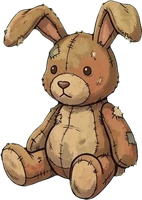
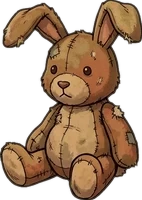
Photo et peluche aux couleurs de la pièce, plus de pastille de Rex, mot Menu centré sur PC

diff --git a/site/ui.js b/site/ui.js
@@ -169,7 +169,6 @@ function rGame(){
     + '<button class="chip" data-act="info" data-id="def" aria-label="Défense de nuit : ' + defenseNuit() + '">' + ic("bouclier", "🛡") + ' ' + defenseNuit() + '<small class="chip-lbl">défense</small></button>'
     + '<button class="chip" data-act="info" data-id="moral" aria-label="Moral : ' + Math.round(G.moral) + '">' + mo + ' ' + Math.round(G.moral) + '<small class="chip-lbl">moral</small></button>'
     + '<button class="chip chipson" data-act="menu" aria-label="Menu et guide">☰<small class="chip-lbl">menu</small></button>'
-    + (chien() ? '<button class="chip chipchien" data-act="chien" title="' + chien().nom + ', le chien">' + ic("chien", "🐕") + (chien().faim ? ' ⚠' : '') + '</button>' : '')
     + '</div><div class="hd-score" title="Score : chaque jour terminé rapporte 1 point par membre en vie"><span class="hs-ico">⭐</span><b>' + (G.score || 0) + '</b><small>score<br>record ' + Math.max(RECORD, G.score || 0) + '</small></div></div>'
     + '<div class="stage scene"><div class="grid2">' + m + '</div><p class="sub aide">Touche 1 ou 2 membres pour fouiller · cases 🗡 🔦 🎒 pour équiper · ⚡ = énergie.</p>'
     + '<div class="row">' + (mission() && !modePC() ? '<button class="btn alt' + (livraisonPossible() >= 0 ? " pret" : "") + '" style="flex:0 0 auto" data-act="mission">🎯 ' + mission().titre + ' · ' + joursMission() + ' j</button>' : '') + (marcheOuvert() && !modePC() ? '<button class="btn alt" style="flex:0 0 auto" data-act="marche">' + ic("marco", MARCHE.icone) + ' Marché</button>' : '') + '</div></div>'

diff --git a/ui.js b/ui.js
@@ -169,7 +169,6 @@ function rGame(){
     + '<button class="chip" data-act="info" data-id="def" aria-label="Défense de nuit : ' + defenseNuit() + '">' + ic("bouclier", "🛡") + ' ' + defenseNuit() + '<small class="chip-lbl">défense</small></button>'
     + '<button class="chip" data-act="info" data-id="moral" aria-label="Moral : ' + Math.round(G.moral) + '">' + mo + ' ' + Math.round(G.moral) + '<small class="chip-lbl">moral</small></button>'
     + '<button class="chip chipson" data-act="menu" aria-label="Menu et guide">☰<small class="chip-lbl">menu</small></button>'
-    + (chien() ? '<button class="chip chipchien" data-act="chien" title="' + chien().nom + ', le chien">' + ic("chien", "🐕") + (chien().faim ? ' ⚠' : '') + '</button>' : '')
     + '</div><div class="hd-score" title="Score : chaque jour terminé rapporte 1 point par membre en vie"><span class="hs-ico">⭐</span><b>' + (G.score || 0) + '</b><small>score<br>record ' + Math.max(RECORD, G.score || 0) + '</small></div></div>'
     + '<div class="stage scene"><div class="grid2">' + m + '</div><p class="sub aide">Touche 1 ou 2 membres pour fouiller · cases 🗡 🔦 🎒 pour équiper · ⚡ = énergie.</p>'
     + '<div class="row">' + (mission() && !modePC() ? '<button class="btn alt' + (livraisonPossible() >= 0 ? " pret" : "") + '" style="flex:0 0 auto" data-act="mission">🎯 ' + mission().titre + ' · ' + joursMission() + ' j</button>' : '') + (marcheOuvert() && !modePC() ? '<button class="btn alt" style="flex:0 0 auto" data-act="marche">' + ic("marco", MARCHE.icone) + ' Marché</button>' : '') + '</div></div>'

diff --git a/site/style.css b/site/style.css
@@ -2429,3 +2429,5 @@ body.pc #app .chip:has(.chip-lbl){display:grid!important;grid-template-columns:a
 body.pc #app .chip:has(.chip-lbl) > img.ico-img,body.pc #app .chip:has(.chip-lbl) > svg,body.pc #app .chip:has(.chip-lbl) > .ico{grid-row:1 / span 2;width:22px;height:22px}
 body.pc #app .chip .chip-lbl{grid-column:2;font-size:9.5px!important;letter-spacing:.02em;line-height:1.1;display:block!important}
 @media (max-width:1400px){ body.pc #app .chip .chip-lbl{display:none!important} body.pc #app .chip:has(.chip-lbl){display:flex!important} }
+/* PC : le bouton Menu n'a pas de chiffre, son nom se centre à côté de l'icône (2026-11-12) */
+body.pc #app .chip.chipson .chip-lbl{grid-row:1 / span 2;align-self:center}

diff --git a/style.css b/style.css
@@ -2429,3 +2429,5 @@ body.pc #app .chip:has(.chip-lbl){display:grid!important;grid-template-columns:a
 body.pc #app .chip:has(.chip-lbl) > img.ico-img,body.pc #app .chip:has(.chip-lbl) > svg,body.pc #app .chip:has(.chip-lbl) > .ico{grid-row:1 / span 2;width:22px;height:22px}
 body.pc #app .chip .chip-lbl{grid-column:2;font-size:9.5px!important;letter-spacing:.02em;line-height:1.1;display:block!important}
 @media (max-width:1400px){ body.pc #app .chip .chip-lbl{display:none!important} body.pc #app .chip:has(.chip-lbl){display:flex!important} }
+/* PC : le bouton Menu n'a pas de chiffre, son nom se centre à côté de l'icône (2026-11-12) */
+body.pc #app .chip.chipson .chip-lbl{grid-row:1 / span 2;align-self:center}

diff --git a/site/sw.js b/site/sw.js
@@ -4,7 +4,7 @@
    IMPORTANT : à chaque mise à jour du jeu, changer VERSION (sinon les
    téléphones garderaient l'ancienne copie).
    ===================================================================== */
-var VERSION = "survival-20261112-1038";
+var VERSION = "survival-20261112-1043";
 var FICHIERS = [
   "./",
   "index.html",

diff --git a/CLAUDE.md b/CLAUDE.md
@@ -392,7 +392,8 @@ Salon version 4 branchée (2026-11-12) : image Gemini de Léo + Maman dessinés 
 Emma sur le canapé (2026-11-12, image ChatGPT : `images/sources/emma-canape-chatgpt.webp`, salon entièrement redessiné donc pas de découpe par différence) : découpée le long de son contour noir (seuil < 36, limite tracée à la main, fond rempli depuis l'extérieur, ouverture 7 px pour retirer les traits du canapé), ramenée à 255 px de haut → `images/personnages/canape-emma.webp` (490, 375, 579, 630). Pour voir ses pieds derrière la lanterne, la table est maintenant 95 px plus en avant (`TABLE_SALON` 348, 606, 671, 786) ; sur PC on n'en voit que le plateau. Zone « Histoire » et cartes déplacées avec elle
 Scène du siphon (2026-11-12, ChatGPT) : `images/siphon.webp` (1376 × 768, rue de banlieue au crépuscule, voiture abandonnée, tuyau vers deux jerricans, zombies dans la brume ; source `images/sources/siphon-voiture.jpg`) en bandeau de « Une voiture abandonnée » et du mini-jeu ; sur PC, fond de la fenêtre posée sur la scène (`poserDansScene`). Toutes les images demandées le 2026-11-12 sont faites
 Recrues au salon (2026-11-12, image ChatGPT `images/sources/yanis-nora-salon-chatgpt.webp`, découpe au contour avec limite à la main et « trous » retirés après coup, sans quoi le remplissage passait dans le jean) : Yanis avec son fauteuil (`images/personnages/fauteuil-yanis.webp`, ×0,84, recouvre le fauteuil du salon) et Nora (`canape-nora.webp`, 280 px, place de Léo). Dans `PLACES_CANAPE` ; `auSalon` ne montre une recrue que si le membre d'origine qui a la même place (`LIT_DE`) est mort. Sam (`canape-sam.webp`, 270 px, place d'Emma) et Inès (`canape-ines.webp`, 283 px, place de Maman) ajoutés ensuite (une image ChatGPT chacun, `images/sources/sam|ines-salon-chatgpt.webp` ; seuil du contour 60 pour Inès, sinon sa queue de cheval partait) : les 4 recrues ont leur place au salon
-Couleurs des objets posés au salon (2026-11-12, retour de Fabien « un peu ternes ») : `images/rex.webp`, `objet-radio.webp`, `objet-cartes.webp` harmonisés avec la pièce (luminosité −12 à −20 %, contraste +15 %, teinte chaude multipliée par (255, 214, 170) à 30-40 %, fin contour brun foncé ajouté autour) ; originaux gardés dans `images/sources/*-avant-retouche.webp`
+Couleurs des objets posés au salon (2026-11-12, retour de Fabien « un peu ternes ») : `images/rex.webp`, `objet-radio.webp`, `objet-cartes.webp`, puis `objet-photo.webp` et `objet-peluche.webp` harmonisés avec la pièce (luminosité −12 à −20 %, contraste +15 %, teinte chaude multipliée par (255, 214, 170) à 30-40 %, fin contour brun foncé ajouté autour) ; originaux gardés dans `images/sources/*-avant-retouche.webp`
+En-tête (2026-11-12, demande de Fabien) : plus de pastille de Rex dans l'en-tête (un bouton de trop) ; on ouvre sa fiche en le touchant dans le salon, sa faim se voit au coucher et dans le bilan de la nuit. Sur PC, le mot « MENU » du bouton ☰ est centré à côté de son icône (`.chipson .chip-lbl`)
 Décor des assauts : la cour fortifiée (`piece-bastion-cour.webp`) sert de fond au combat pendant un assaut (ui.js, `openCombat`).
 Bilan de difficulté (2026-11-10, simulation après tous les ajouts) : Malin vit 85 jours (médiane, 10 % ≤ 68, 90 % ≤ 104, max 122), 96 % atteignent le jour 60, 79 % le jour 75, seulement 16 % le jour 100 ; Naïf 10 jours (1re mort au jour 5). Causes de mort de Malin : attaques de nuit, puis soif, puis faim. Assauts (2 membres, robot Auto, 200 essais) : bastion faible = 100 % de victoires ; remparts 5 + armurerie 3 + cible au jour 200 = 0 % (7 % avec gilets, casques, boucliers et camion au maximum) : courbe trop raide, à lisser. Jour d'accès aux clans : 100 jugé trop long.
 Réglages du 2026-11-10 (choix de Fabien : 30 jours) :
@@ -435,6 +436,6 @@ Problèmes constatés par Fabien : « +1 arme » ne dit pas quelle arme ; les li
 ## Façon de travailler
 - Fabien n'est pas développeur : expliquer simplement, dire ce qui a été changé et comment le tester (double-clic sur index.html).
 - Faire des changements par petites étapes jouables, tester avant de dire que c'est fini.
-- En-tête : seulement les pastilles essentielles (eau, nourriture, soins, défense de nuit, moral), en grille de 3 colonnes qui remplit toute la largeur sur téléphone (pas de vide à droite) ; un fondu (`#fondu`, piece.js) fait se mêler le bas de l'image au plancher sur les téléphones hauts ; la vraie solution pour remplir les écrans hauts serait une image de pièce plus haute (9:16) ; la pièce est collée en haut de l'espace libre (pas de bande vide) + ☰ + Rex ; planches et piles se voient dans le Stock (demande de Fabien)
+- En-tête : seulement les pastilles essentielles (eau, nourriture, soins, défense de nuit, moral), en grille de 3 colonnes qui remplit toute la largeur sur téléphone (pas de vide à droite) ; un fondu (`#fondu`, piece.js) fait se mêler le bas de l'image au plancher sur les téléphones hauts ; la vraie solution pour remplir les écrans hauts serait une image de pièce plus haute (9:16) ; la pièce est collée en haut de l'espace libre (pas de bande vide) + ☰ (Rex n'y est plus depuis le 2026-11-12) ; planches et piles se voient dans le Stock (demande de Fabien)
 - RÈGLE (demandée par Fabien le 2026-11-08 après un bug d'en-tête) : avant chaque publication qui touche l'affichage, charger `controle-affichage.js` dans le navigateur de test et lancer `await toutControler()` puis `await verifNav()` (parcourt les écrans principaux et les pièces) / `controleAffichage()` sur les écrans principaux (départ, principal avec chien/marché, fiche membre, « Qui part », refuge, guide, chapitre) aux tailles 355×760, 360×640, 390×844, 412×915, 740×360, 1280×800. Ne publier qu'avec « aucun problème ». Le volet du navigateur est souvent replié : les captures ne marchent pas, ce contrôle par mesures les remplace
 - Assets : emojis en attendant ; ensuite SVG codés à la main ; sinon packs gratuits (Kenney CC0, game-icons.net CC BY) en vérifiant les licences.
